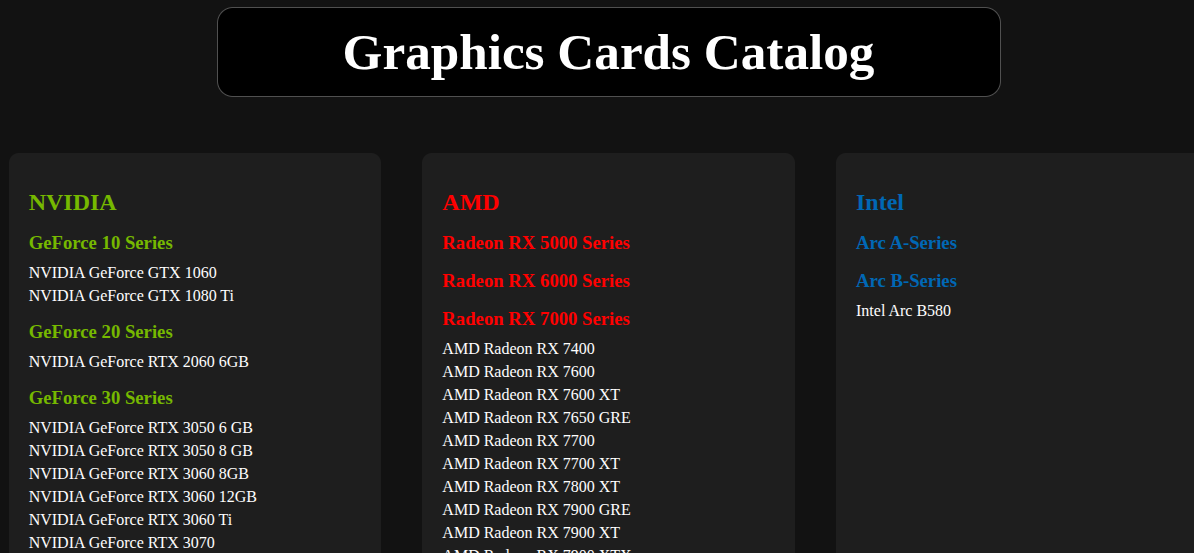
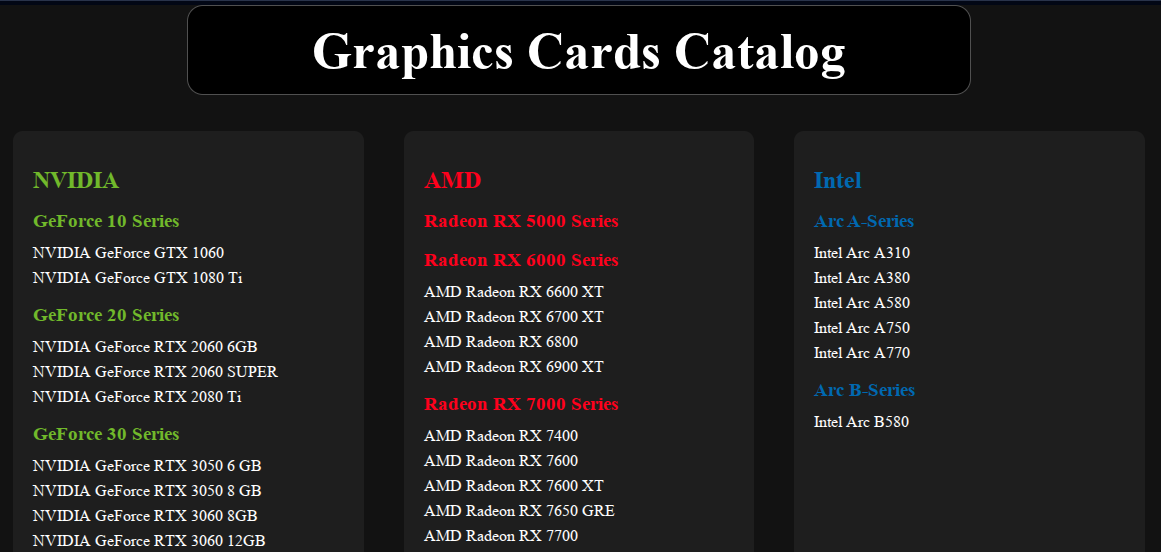
Update the repository doc file - add new screenshots for the updated look of the Web UI - include link to the live demo on Render - add command showing how to pull the Docker Hub image

diff --git a/README.md b/README.md
@@ -12,11 +12,18 @@ A web app to display detailed information for all of your favorite graphics card
 
 Build using **Node.js + Express** (Backend) and **React + Axios** (Frontend).
 
+- [Live demo⇗](https://gpu-catalog.onrender.com) on Render.
+
+- Available on the Docker Hub
+  ```bash
+  docker pull rafaeltorok/gpucatalog:latest
+  ```
+
+- See the [Docker](#docker) section for instructions on how to run the container.
+
 ### Screenshots
 
-<img src="./img/main-page.png" alt="Graphics Cards Catalog app main page" width="600"/>
-
-<img src="./img/gpu-info-page.png" alt="GPU information page" width="550"/>
+<img src="./img/main-page.png" alt="Graphics Cards Catalog app main page" width="650" style="margin-right: 50px;" /><img src="./img/gpu-info-page.png" alt="GPU information page" width="525"/>
 
 
 ## Usage